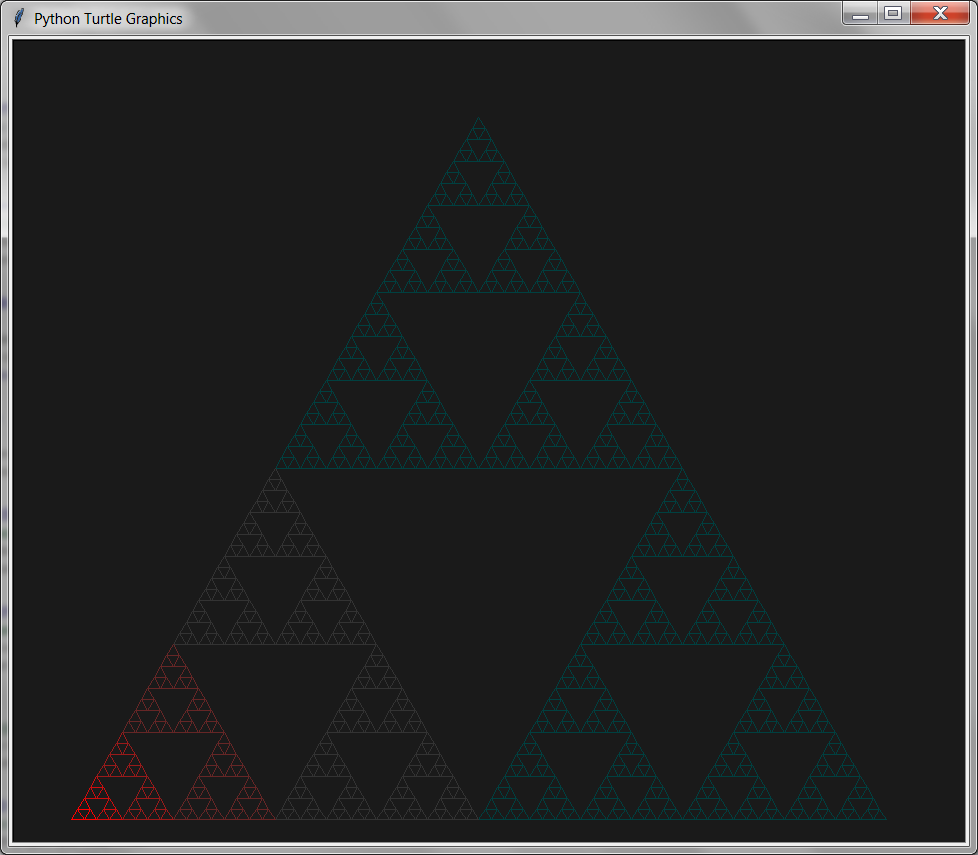
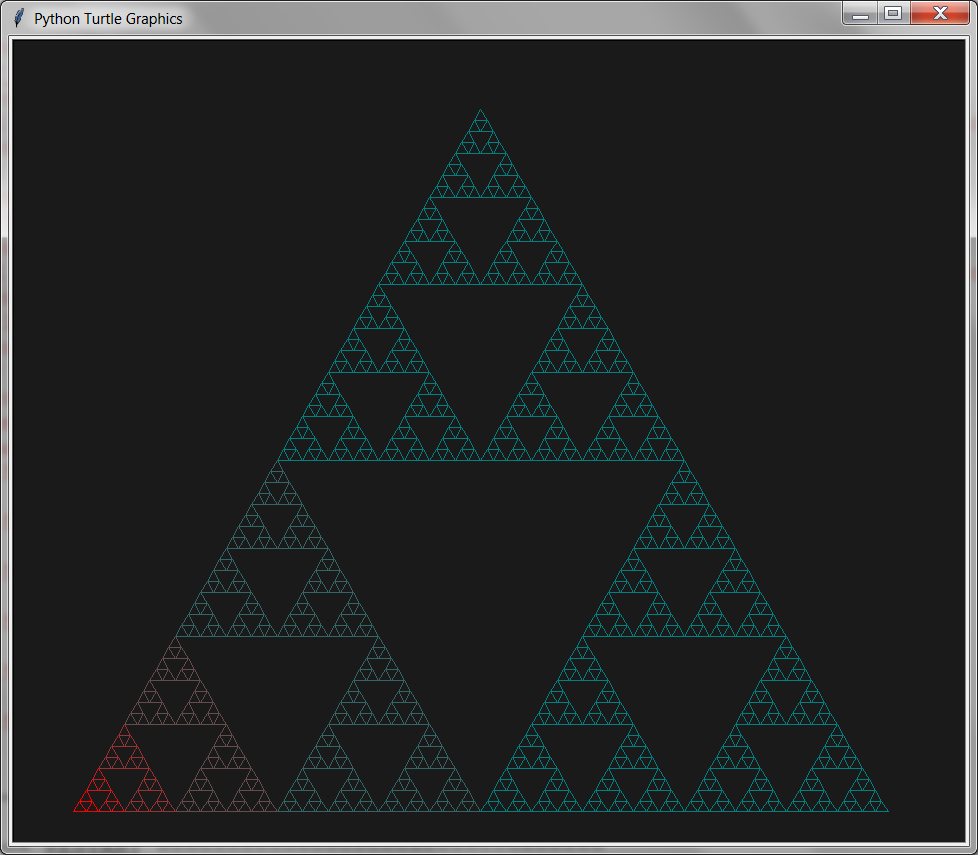
Improve colors of Sierpinski Triangle.

Changed region(s): [[0.0613, 0.3345, 0.9202, 1.0], [0.3988, 0.152, 0.5828, 0.3345]]

diff --git a/simple/sierpinski_triangle.py b/simple/sierpinski_triangle.py
@@ -34,8 +34,8 @@ def draw_sierpinski(x, y, level, color):
 # loop from 5 to 0, drawing 5 sets of sierpinski triangles each with a different color
 for i in range(5, -1, -1): 
     red = 1 - (0.2 * i)
-    green = 0.05 * i
-    blue = 0.05 * i
+    green = 0.1 * i
+    blue = 0.1 * i
     draw_sierpinski(START_X, START_Y, i, (red, green, blue))
 
 hideturtle()    
